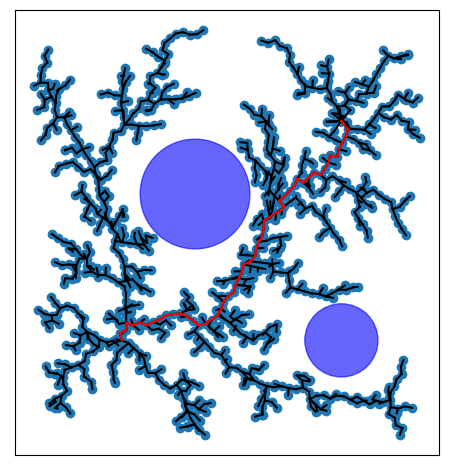
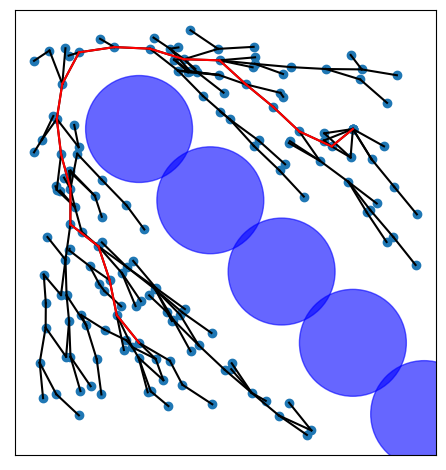
Update on reconnecting the parents

diff --git a/src/graph.cpp b/src/graph.cpp
@@ -1,5 +1,6 @@
 #include <rrt-star/graph.h>
 
+#include <algorithm>
 #include <limits>
 
 namespace rrt_star {
@@ -14,22 +15,19 @@ void Graph::reserve(size_t num_vertices, size_t num_edges) {
     m_vertices.reserve(num_vertices);
     m_edges.reserve(num_edges);
     m_distances.reserve(num_vertices);
-    m_neighbors.reserve(num_vertices);
 }
 
 size_t Graph::addVertex(const Point& vertex) {
     // TODO: m_vertices should be a set, such that every vertex is only once added. Otherwise return it's index.
     // TODO: Therefore we need a hash function on the Point.
-    m_vertices.push_back(vertex);
-    m_neighbors.push_back({});
+    m_vertices.push_back({-1, vertex});
     m_distances.push_back(0.);
     return m_vertices.size() - 1;
 }
 
-void Graph::addEdge(size_t idx_1, size_t idx_2, double distance) {
-    m_edges.push_back({idx_1, idx_2});
-    m_neighbors[idx_1].push_back(std::make_pair(idx_2, distance));
-    m_neighbors[idx_2].push_back(std::make_pair(idx_1, distance));
+void Graph::addEdge(size_t idx_parent, size_t idx_child) {
+    m_edges.push_back({idx_parent, idx_child});
+    m_vertices[idx_child].first = idx_parent;
 }
 
 bool Graph::getClosestNeighbor(const Point& point, const std::vector<ObstacleSPtr>& obstacles, size_t& vertex_idx) const {
@@ -37,7 +35,7 @@ bool Graph::getClosestNeighbor(const Point& point, const std::vector<ObstacleSPt
 
     bool has_at_least_one = false;
     for (size_t i = 0; i < m_vertices.size(); i++) {
-        Line line = {point, m_vertices[i]};
+        Line line = {point, m_vertices[i].second};
         bool isInAny = false;
         for (const auto& obstacle : obstacles) {
             if (obstacle->goesThrough(line)) {
@@ -48,7 +46,7 @@ bool Graph::getClosestNeighbor(const Point& point, const std::vector<ObstacleSPt
         if (isInAny)
             continue;
 
-        double dist = Vector(point, m_vertices[i]).norm();
+        double dist = Vector(point, m_vertices[i].second).norm();
         if (dist < min_dist) {
             vertex_idx = i;
             min_dist = dist;
@@ -64,16 +62,20 @@ const size_t Graph::getNumVertices() const {
 }
 
 const Point Graph::getVertex(size_t index) const {
-    return m_vertices.at(index);
+    return m_vertices.at(index).second;
 }
 
 const size_t Graph::getIndex(const Point& p) const {
     for (size_t i = 0; i < m_vertices.size(); i++) {
-        if (Vector(m_vertices.at(i), p).norm() < std::numeric_limits<double>::epsilon()) {
+        if (Vector(m_vertices.at(i).second, p).norm() < std::numeric_limits<double>::epsilon()) {
             return i;
         }
     }
     return m_vertices.size();
+}
+
+const size_t Graph::getParent(size_t index) const {
+    return m_vertices.at(index).first;
 }
 
 const double Graph::distance(size_t index) const {
@@ -84,24 +86,40 @@ double& Graph::distance(size_t index) {
     return m_distances.at(index);
 }
 
-const std::vector<size_t> Graph::getAllNeighborKeys() const {
-    std::vector<size_t> keys;
-    for (size_t i = 0; i < m_neighbors.size(); i++)
-        keys.push_back(i);
+void Graph::propagateCost(size_t parent_idx, const double& cost_change) {
+    size_t idx = 0;
+    for (const auto& vertex : m_vertices) {
+        if (vertex.first == parent_idx) {
+            m_distances.at(idx) += cost_change;
+            propagateCost(idx, cost_change);
+        }
 
-    return keys;
+        idx++;
+    }
 }
 
-std::vector<std::pair<size_t, double>> Graph::getNeighbors(size_t index) const {
-    return m_neighbors.at(index);
+Path Graph::backtrack(const Point& start_pos, const Point& end_pos) const {
+    size_t start_idx = getIndex(start_pos);
+    size_t end_idx = getIndex(end_pos);
+
+    Path ret = {end_idx};
+
+    size_t current = end_idx;
+    while (m_vertices.at(current).first != -1) {
+        ret.push_back(m_vertices.at(current).first);
+        current = m_vertices.at(current).first;
+    }
+
+    std::reverse(ret.begin(), ret.end());
+    return ret;
 }
 
 void Graph::dump(std::ostream& stream) const {
     stream << "\"edges\": [" << std::endl;
     size_t idx = 0;
     for (const auto& e : m_edges) {
-        Point p1 = m_vertices.at(e.first);
-        Point p2 = m_vertices.at(e.second);
+        Point p1 = m_vertices.at(e.first).second;
+        Point p2 = m_vertices.at(e.second).second;
         stream << "    [" << p1.x() << ", " << p1.y() << ", " << p2.x() << ", " << p2.y() << "]";
         if (idx++ != m_edges.size() - 1)
             stream << ",";
@@ -113,7 +131,7 @@ void Graph::dump(std::ostream& stream) const {
     stream << "\"vertices\" : [" << std::endl;
     idx = 0;
     for (const auto& v : m_vertices) {
-        stream << "    [" << v.x() << ", " << v.y() << "]";
+        stream << "    [" << v.second.x() << ", " << v.second.y() << "]";
         if (idx++ != m_vertices.size() - 1)
             stream << ",";
         stream << std::endl;

diff --git a/src/rrt-star.cpp b/src/rrt-star.cpp
@@ -39,7 +39,7 @@ bool RRTStar::compute(const size_t& iterations, const double& maxStepSize) {
 
         // 5. Add edge to graph to all neighbors
         size_t new_idx = m_graph.addVertex(newVertex);
-        m_graph.addEdge(closest_vertex_idx, new_idx, dist);
+        m_graph.addEdge(closest_vertex_idx, new_idx);
         m_graph.distance(new_idx) = m_graph.distance(closest_vertex_idx) + dist;
 
         // 6. Update nearby vertices
@@ -47,7 +47,7 @@ bool RRTStar::compute(const size_t& iterations, const double& maxStepSize) {
         size_t num_vertices = m_graph.getNumVertices();
         for (size_t i = 0; i < num_vertices; i++) {
             // skip the vertex itself
-            if (i == new_idx)
+            if (i == new_idx || i == closest_vertex_idx)
                 continue;
 
             // check if other vertex is close-by
@@ -62,8 +62,12 @@ bool RRTStar::compute(const size_t& iterations, const double& maxStepSize) {
 
             // Add a connection if it makes sense and update the distances
             if (m_graph.distance(new_idx) + dist < m_graph.distance(i)) {
-                m_graph.addEdge(i, new_idx, dist);
+                m_graph.addEdge(i, new_idx);
+                double cost_diff = m_graph.distance(new_idx) + dist - m_graph.distance(i);
                 m_graph.distance(i) = m_graph.distance(new_idx) + dist;
+
+                // propagate the cost to all leave nodes
+                m_graph.propagateCost(i, cost_diff);
             }
         }
 
@@ -71,7 +75,7 @@ bool RRTStar::compute(const size_t& iterations, const double& maxStepSize) {
         double distance_to_end = Vector(newVertex, m_endPos).norm();
         if (distance_to_end < maxStepSize) {
             size_t end_idx = m_graph.addVertex(m_endPos);
-            m_graph.addEdge(new_idx, end_idx, distance_to_end);
+            m_graph.addEdge(new_idx, end_idx);
 
             // update the distance matrix for the end
             m_graph.distance(end_idx) = std::min(m_graph.distance(end_idx), m_graph.distance(new_idx) + distance_to_end);
@@ -81,7 +85,7 @@ bool RRTStar::compute(const size_t& iterations, const double& maxStepSize) {
     }
 
     if (m_success) {
-        m_path = Dijkstra::compute(m_graph, m_startPos, m_endPos);
+        m_path = m_graph.backtrack(m_startPos, m_endPos);
     }
 
     return m_success;

diff --git a/include/rrt-star/graph.h b/include/rrt-star/graph.h
@@ -6,6 +6,8 @@
 
 namespace rrt_star {
 
+using Path = std::vector<size_t>;
+
 class Graph {
     // TODO: change data structure of both vertices and edges to allow faster access!
 public:
@@ -14,11 +16,11 @@ public:
     void clear();
     void reserve(size_t num_vertices, size_t num_edges);
 
-    // TODO: improve this!
     void dump(std::ostream& stream) const;
 
     size_t addVertex(const Point& vertex);
-    void addEdge(size_t idx_1, size_t idx_2, double distance);
+    // add an edge, but does NOT update the distances.
+    void addEdge(size_t idx_parent, size_t idx_child);
 
     bool getClosestNeighbor(const Point& point, const std::vector<ObstacleSPtr>& obstacles, size_t& vertex_idx) const;
 
@@ -26,22 +28,23 @@ public:
     const size_t getNumVertices() const;
     const Point getVertex(size_t index) const;
     const size_t getIndex(const Point& p) const;
+    const size_t getParent(size_t index) const;
 
     // Distance
     const double distance(size_t index) const;
     double& distance(size_t index);
+    void propagateCost(size_t parent_idx, const double& cost_change);
 
-    // Neighbors
-    const std::vector<size_t> getAllNeighborKeys() const;
-    std::vector<std::pair<size_t, double>> getNeighbors(size_t index) const;
+    // Backtrack
+    Path backtrack(const Point& start_pos, const Point& end_pos) const;
 
 private:
     using Edge = std::pair<size_t, size_t>;
-    std::vector<Point> m_vertices;
+    using Node = std::pair<size_t, Point>;  // parent, Vertex
+
+    std::vector<Node> m_vertices;
     std::vector<Edge> m_edges;
     std::vector<double> m_distances;
-    // m_neighbors[idx][...]{neighbor_idx, cost}
-    std::vector<std::vector<std::pair<size_t, double>>> m_neighbors;
 };
 
 }  // namespace rrt_star

diff --git a/example.cpp b/example.cpp
@@ -6,11 +6,13 @@
 int main(int argc, char const* argv[]) {
     using namespace rrt_star;
 
-    std::vector<ObstacleSPtr> obstacles = {std::make_shared<Circle>(Point(1., 2.), 0.75), std::make_shared<Circle>(Point(3., 0), 0.5)};
+    std::vector<ObstacleSPtr> obstacles = {std::make_shared<Circle>(Point(1., 2.), 0.75), std::make_shared<Circle>(Point(3., 0), 0.75),
+                                           std::make_shared<Circle>(Point(2., 1.), 0.75), std::make_shared<Circle>(Point(4., -1.), 0.75),
+                                           std::make_shared<Circle>(Point(0., 3.), 0.75)};
 
     RRTStar rrt_s = RRTStar(Point(0, 0), Point(3, 3), obstacles);
 
-    bool successful = rrt_s.compute(500, 0.3);
+    bool successful = rrt_s.compute(300, 0.5);
 
     if (successful) {
         std::ofstream out("data.json");

diff --git a/scripts/plot.py b/scripts/plot.py
@@ -45,7 +45,7 @@ def plot():
     plt.tight_layout()
     
     plt.show()
-    #plt.savefig("images/example.png",bbox_inches="tight")
+    #plt.savefig("../images/example.png",bbox_inches="tight")
 
 if __name__ == '__main__':
     plot()

diff --git a/include/rrt-star/rrt-star.h b/include/rrt-star/rrt-star.h
@@ -1,6 +1,6 @@
 #pragma once
 
-#include <rrt-star/dijkstra.h>
+#include <rrt-star/graph.h>
 
 #include <random>
 
